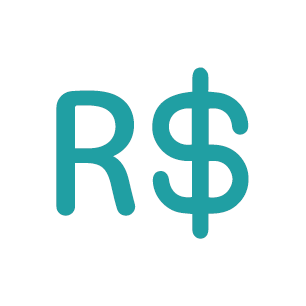
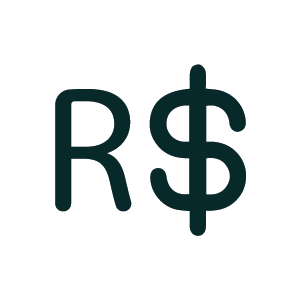
cores icones

Changed region(s): [[0.4784, 0.2093, 0.8372, 0.7774], [0.1794, 0.2691, 0.4485, 0.7176]]

diff --git a/src/pages/Home/index.tsx b/src/pages/Home/index.tsx
@@ -11,7 +11,7 @@ const Home = () => {
         <section className="w-full mt-1">
           <Swiper
             modules={[Navigation, Pagination, Autoplay]}
-            className="flex px-2 pb-6 "
+            className="flex px-2 pb-7 "
             pagination={pagination}
             loop={true}
             spaceBetween={5}
@@ -35,11 +35,11 @@ const Home = () => {
             </SwiperSlide>
           </Swiper>
         </section>
-        <section className="my-2 w-[100vw]">
+        <section className="my-2 w-[calc(100vw-24px)]">
           <nav className="flex flex-col ">
-            <ul className="flex flex-row h-1/2 ">
+            <ul className="flex flex-row h-1/2 my-1">
               <li className="flex flex-col justify-center w-1/4 mx-2 ">
-                <div className=" flex justify-center  bg-verde-insted-icon rounded-2xl h-full ">
+                <div className=" flex justify-center  bg-verde-insted rounded-2xl h-full ">
                   <img src="./images\clock.png" className="py-1 aspect-video object-contain" />
                 </div>
                 <div className=" text-center h-1/2">
@@ -47,7 +47,7 @@ const Home = () => {
                 </div>
               </li>
               <li className="flex flex-col justify-center w-1/4 mx-2 ">
-                <div className=" flex justify-center bg-verde-insted-icon rounded-2xl h-full">
+                <div className=" flex justify-center bg-verde-insted rounded-2xl h-full">
                   <img src="./images\grade.png" className=" py-1 aspect-video object-contain" />
                 </div>
                 <div className="text-center">
@@ -55,7 +55,7 @@ const Home = () => {
                 </div>
               </li>
               <li className="flex flex-col justify-center w-1/4 mx-2">
-                <div className=" flex justify-center bg-verde-insted-icon rounded-2xl  h-full">
+                <div className=" flex justify-center bg-verde-insted rounded-2xl  h-full">
                   <img src="./images\calendar.png" className="py-1 aspect-video object-contain" />
                 </div>
                 <div className="text-center">
@@ -63,7 +63,7 @@ const Home = () => {
                 </div>
               </li>
               <li className="flex flex-col justify-center w-1/4 mx-2">
-                <div className=" flex justify-center bg-verde-insted-icon rounded-2xl h-full">
+                <div className=" flex justify-center bg-verde-insted rounded-2xl h-full">
                   <img
                     src="./images\notification.png"
                     className="py-1 aspect-video object-contain"
@@ -74,9 +74,9 @@ const Home = () => {
                 </div>
               </li>
             </ul>
-            <ul className="flex flex-row h-1/2 ">
+            <ul className="flex flex-row h-1/2 my-1">
               <li className="flex flex-col justify-center w-1/4 mx-2">
-                <div className=" flex justify-center  bg-verde-insted-icon rounded-2xl  h-full">
+                <div className=" flex justify-center  bg-verde-insted rounded-2xl  h-full">
                   <img src="./images\clock.png" className=" py-1 aspect-video object-contain" />
                 </div>
                 <div className=" text-center h-1/2">
@@ -84,7 +84,7 @@ const Home = () => {
                 </div>
               </li>
               <li className="flex flex-col justify-center w-1/4 mx-2 ">
-                <div className=" flex justify-center bg-verde-insted-icon rounded-2xl h-full">
+                <div className=" flex justify-center bg-verde-insted rounded-2xl h-full">
                   <img src="./images\grade.png" className=" py-1 aspect-video object-contain" />
                 </div>
                 <div className="text-center">
@@ -92,7 +92,7 @@ const Home = () => {
                 </div>
               </li>
               <li className="flex flex-col justify-center w-1/4 mx-2">
-                <div className=" flex justify-center bg-verde-insted-icon rounded-2xl h-full">
+                <div className=" flex justify-center bg-verde-insted rounded-2xl h-full">
                   <img src="./images\library.png" className="py-1 aspect-video object-contain" />
                 </div>
                 <div className="text-center">
@@ -100,7 +100,7 @@ const Home = () => {
                 </div>
               </li>
               <li className="flex flex-col justify-center w-1/4 mx-2">
-                <div className=" flex justify-center bg-verde-insted-icon rounded-2xl h-full">
+                <div className=" flex justify-center bg-verde-insted rounded-2xl h-full">
                   <img
                     src="./images\financeiro.png"
                     className="py-1 aspect-video object-contain "
@@ -113,12 +113,12 @@ const Home = () => {
             </ul>
           </nav>
         </section>
-        <section className="bg-verde-insted flex flex-col w-[calc(100vw-24px)] rounded-2xl m-2">
+        <section className="bg-verde-insted-icon flex flex-col w-[calc(100vw-24px)] rounded-2xl m-2">
           <div className="ml-4 my-1">
-            <h1 className="text-2xl text-white font-bold">Matérias</h1>
+            <h1 className="text-2xl text-verde-insted-texto font-bold">Matérias</h1>
           </div>
           <Swiper
-            className="flex  m-2 pt-2 pb-6 rounded-2xl bg-white"
+            className="flex  m-2 pt-2 pb-7 rounded-2xl bg-white"
             modules={[Navigation, Pagination, EffectFade]}
             slidesPerView={1}
             pagination={pagination}
@@ -127,18 +127,18 @@ const Home = () => {
             fadeEffect={{ crossFade: true }}
           >
             <SwiperSlide className="flex flex-row justify-center text-center items-center  ">
-              <img src="./images\education.png " alt="..." className="w-1/6 p-1" />
+              <img src="./images\education.png " alt="..." className="w-1/6 p-2 mr-2" />
               <p className="w-2/3 text-verde-texto">Programação Orientada à objetos</p>
             </SwiperSlide>
             <SwiperSlide className="flex flex-row justify-center text-center items-center  ">
-              <img src="./images\education.png " alt="..." className="w-1/6 p-1" />
+              <img src="./images\education.png " alt="..." className="w-1/6 p-2 mr-2" />
               <p className="w-2/3 text-verde-texto">Projeto Integrador III</p>
             </SwiperSlide>
           </Swiper>
         </section>
         <div className="bg-verde-insted-icon w-[calc(100vw-24px)] my-2 h-5/12 flex flex-col rounded-2xl">
           <div className="ml-4 my-1">
-            <h1 className="text-2xl font-semibold">Atividades</h1>
+            <h1 className="text-2xl font-semibold text-verde-texto">Atividades</h1>
           </div>
           <Swiper
             className="flex m-0 pt-2 pb-6 px-2 rounded-2xl "
@@ -153,8 +153,8 @@ const Home = () => {
           >
             <SwiperSlide className="bg-white rounded-2xl flex flex-col h-fit">
               <div className="bg-verde-insted flex rounded-2xl  flex-row justify-between  py-2 px-5 ">
-                <h4 className="font-bold text-white">Quinta-Feira, 18/08</h4>
-                <p className="font-bold text-white">23:59</p>
+                <h4 className="font-bold text-cor-de-fundo">Quinta-Feira, 18/08</h4>
+                <p className="font-bold text-cor-de-fundo">23:59</p>
               </div>
               <div className="flex flex-row justify-center items-center p-2 ">
                 <div className="text-center">

diff --git a/src/routes/index.tsx b/src/routes/index.tsx
@@ -11,7 +11,7 @@ const RoutesApp = () => {
         <Route path="/edit-profile" element={<EditPassword />} />
         <Route path="/profile" element={<Profile />} />
         <Route path="/home" element={<Home />} />
-        <Route path="/login" element={<Login />} />
+        <Route path="/" element={<Login />} />
       </Routes>
     </BrowserRouter>
   );

diff --git a/src/pages/Home/components/Swiper/style.css b/src/pages/Home/components/Swiper/style.css
@@ -13,8 +13,7 @@
   width: 25px;
   transition: 0.4s all;
   border-radius: 16px;
-  background: rgb(29, 169, 173);
-}
+  background: rgb(5, 40, 40)}
 .swiper-button-next
 {
   color: rgb(29, 169, 173) !important;
